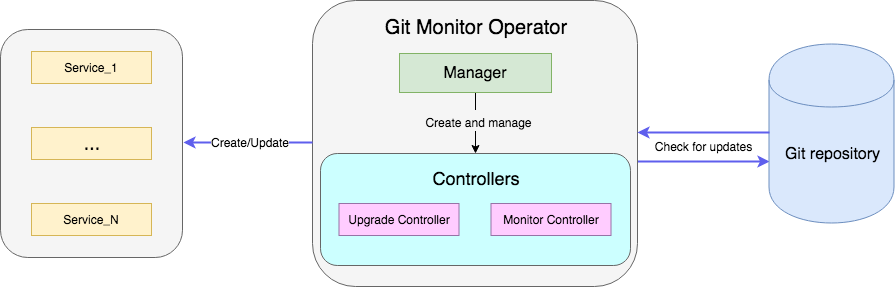
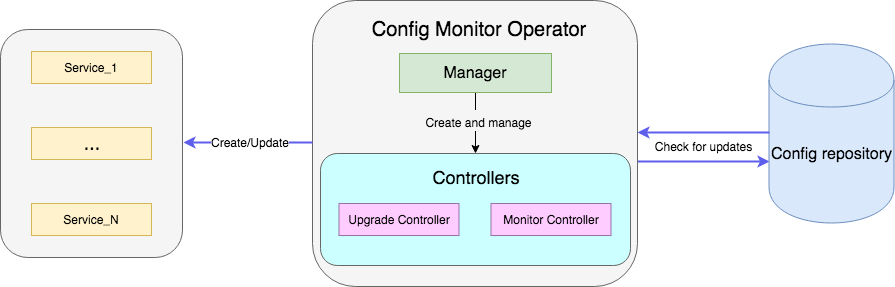
name changed

Changed region(s): [[0.3922, 0.0557, 0.6637, 0.1394], [0.8447, 0.5017, 0.9955, 0.5854], [0.4827, 0.5854, 0.6034, 0.669]]

diff --git a/pkg/controller/monitor/monitor_controller.go b/pkg/controller/monitor/monitor_controller.go
@@ -3,7 +3,7 @@ package monitor
 import (
 	"context"
 	"encoding/json"
-	servicesv1alpha1 "github.com/GrigoriyMikhalkin/git-monitor/pkg/apis/services/v1alpha1"
+	servicesv1alpha1 "github.com/GrigoriyMikhalkin/config-monitor/pkg/apis/services/v1alpha1"
 	"github.com/operator-framework/operator-sdk/pkg/k8sutil"
 	"io/ioutil"
 	corev1 "k8s.io/api/core/v1"
@@ -119,7 +119,7 @@ type ReconcileMonitor struct {
 // Result.Requeue is true, otherwise upon completion it will remove the work from the queue.
 func (r *ReconcileMonitor) Reconcile(request reconcile.Request) (reconcile.Result, error) {
 	reqLogger := log.WithValues("Request.Namespace", request.Namespace, "Request.Name", request.Name)
-	reqLogger.Info("Checking updates in Git for MonitoredService")
+	reqLogger.Info("Checking updates in repo for MonitoredService")
 
 	// Fetch the Monitor instance
 	instance := &servicesv1alpha1.MonitoredService{}

diff --git a/cmd/manager/main.go b/cmd/manager/main.go
@@ -4,8 +4,8 @@ import (
 	"context"
 	"flag"
 	"fmt"
-	"github.com/GrigoriyMikhalkin/git-monitor/pkg/apis"
-	"github.com/GrigoriyMikhalkin/git-monitor/pkg/controller"
+	"github.com/GrigoriyMikhalkin/config-monitor/pkg/apis"
+	"github.com/GrigoriyMikhalkin/config-monitor/pkg/controller"
 	"os"
 	"runtime"
 
@@ -74,7 +74,7 @@ func main() {
 	ctx := context.TODO()
 
 	// Become the leader before proceeding
-	err = leader.Become(ctx, "git-monitor-lock")
+	err = leader.Become(ctx, "config-monitor-lock")
 	if err != nil {
 		log.Error(err, "")
 		os.Exit(1)

diff --git a/pkg/controller/upgrade/upgrade_controller.go b/pkg/controller/upgrade/upgrade_controller.go
@@ -7,7 +7,7 @@ import (
 	"sigs.k8s.io/controller-runtime/pkg/event"
 	"sigs.k8s.io/controller-runtime/pkg/predicate"
 
-	servicesv1alpha1 "github.com/GrigoriyMikhalkin/git-monitor/pkg/apis/services/v1alpha1"
+	servicesv1alpha1 "github.com/GrigoriyMikhalkin/config-monitor/pkg/apis/services/v1alpha1"
 
 	appsv1 "k8s.io/api/apps/v1"
 	corev1 "k8s.io/api/core/v1"

diff --git a/pkg/apis/addtoscheme_services_v1alpha1.go b/pkg/apis/addtoscheme_services_v1alpha1.go
@@ -1,7 +1,7 @@
 package apis
 
 import (
-	"github.com/GrigoriyMikhalkin/git-monitor/pkg/apis/services/v1alpha1"
+	"github.com/GrigoriyMikhalkin/config-monitor/pkg/apis/services/v1alpha1"
 )
 
 func init() {

diff --git a/pkg/controller/add_monitor.go b/pkg/controller/add_monitor.go
@@ -1,7 +1,7 @@
 package controller
 
 import (
-	"github.com/GrigoriyMikhalkin/git-monitor/pkg/controller/monitor"
+	"github.com/GrigoriyMikhalkin/config-monitor/pkg/controller/monitor"
 )
 
 func init() {

diff --git a/pkg/controller/add_upgrade.go b/pkg/controller/add_upgrade.go
@@ -1,7 +1,7 @@
 package controller
 
 import (
-	"github.com/GrigoriyMikhalkin/git-monitor/pkg/controller/upgrade"
+	"github.com/GrigoriyMikhalkin/config-monitor/pkg/controller/upgrade"
 )
 
 func init() {
